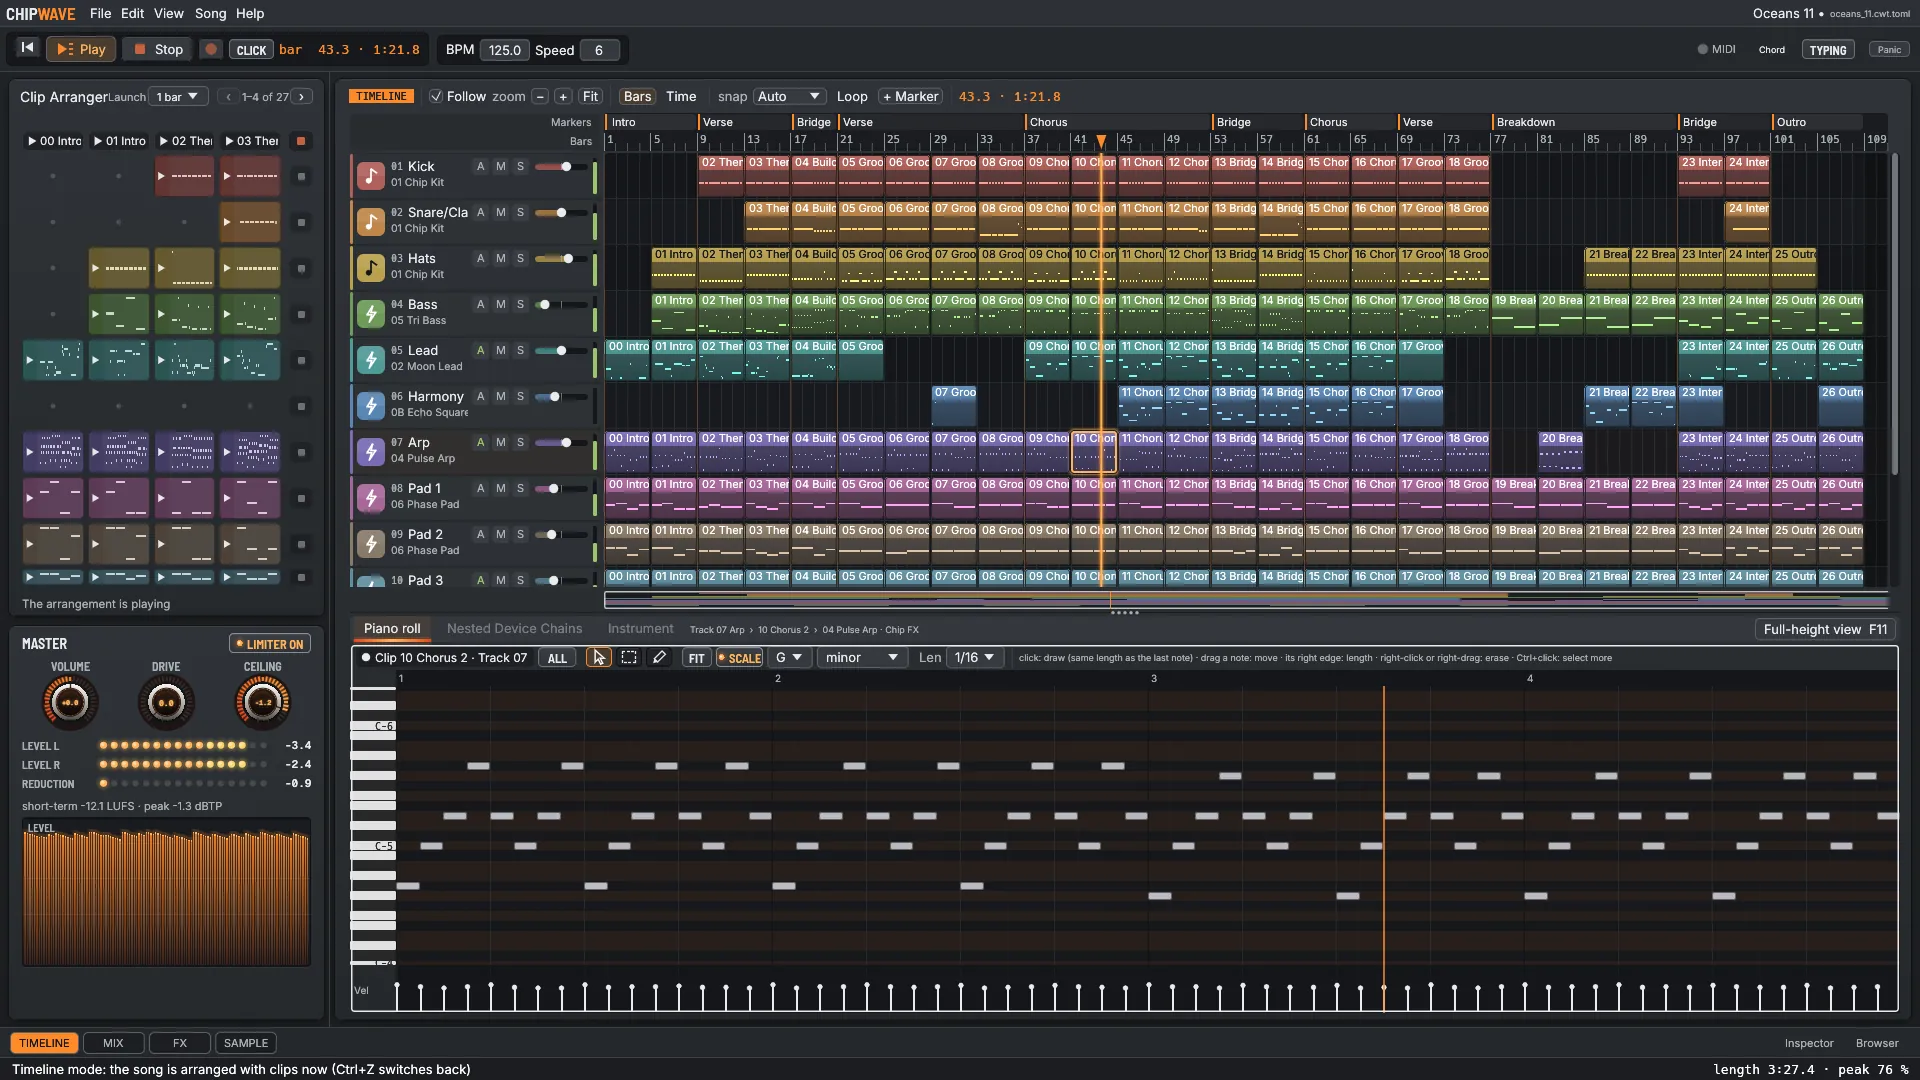
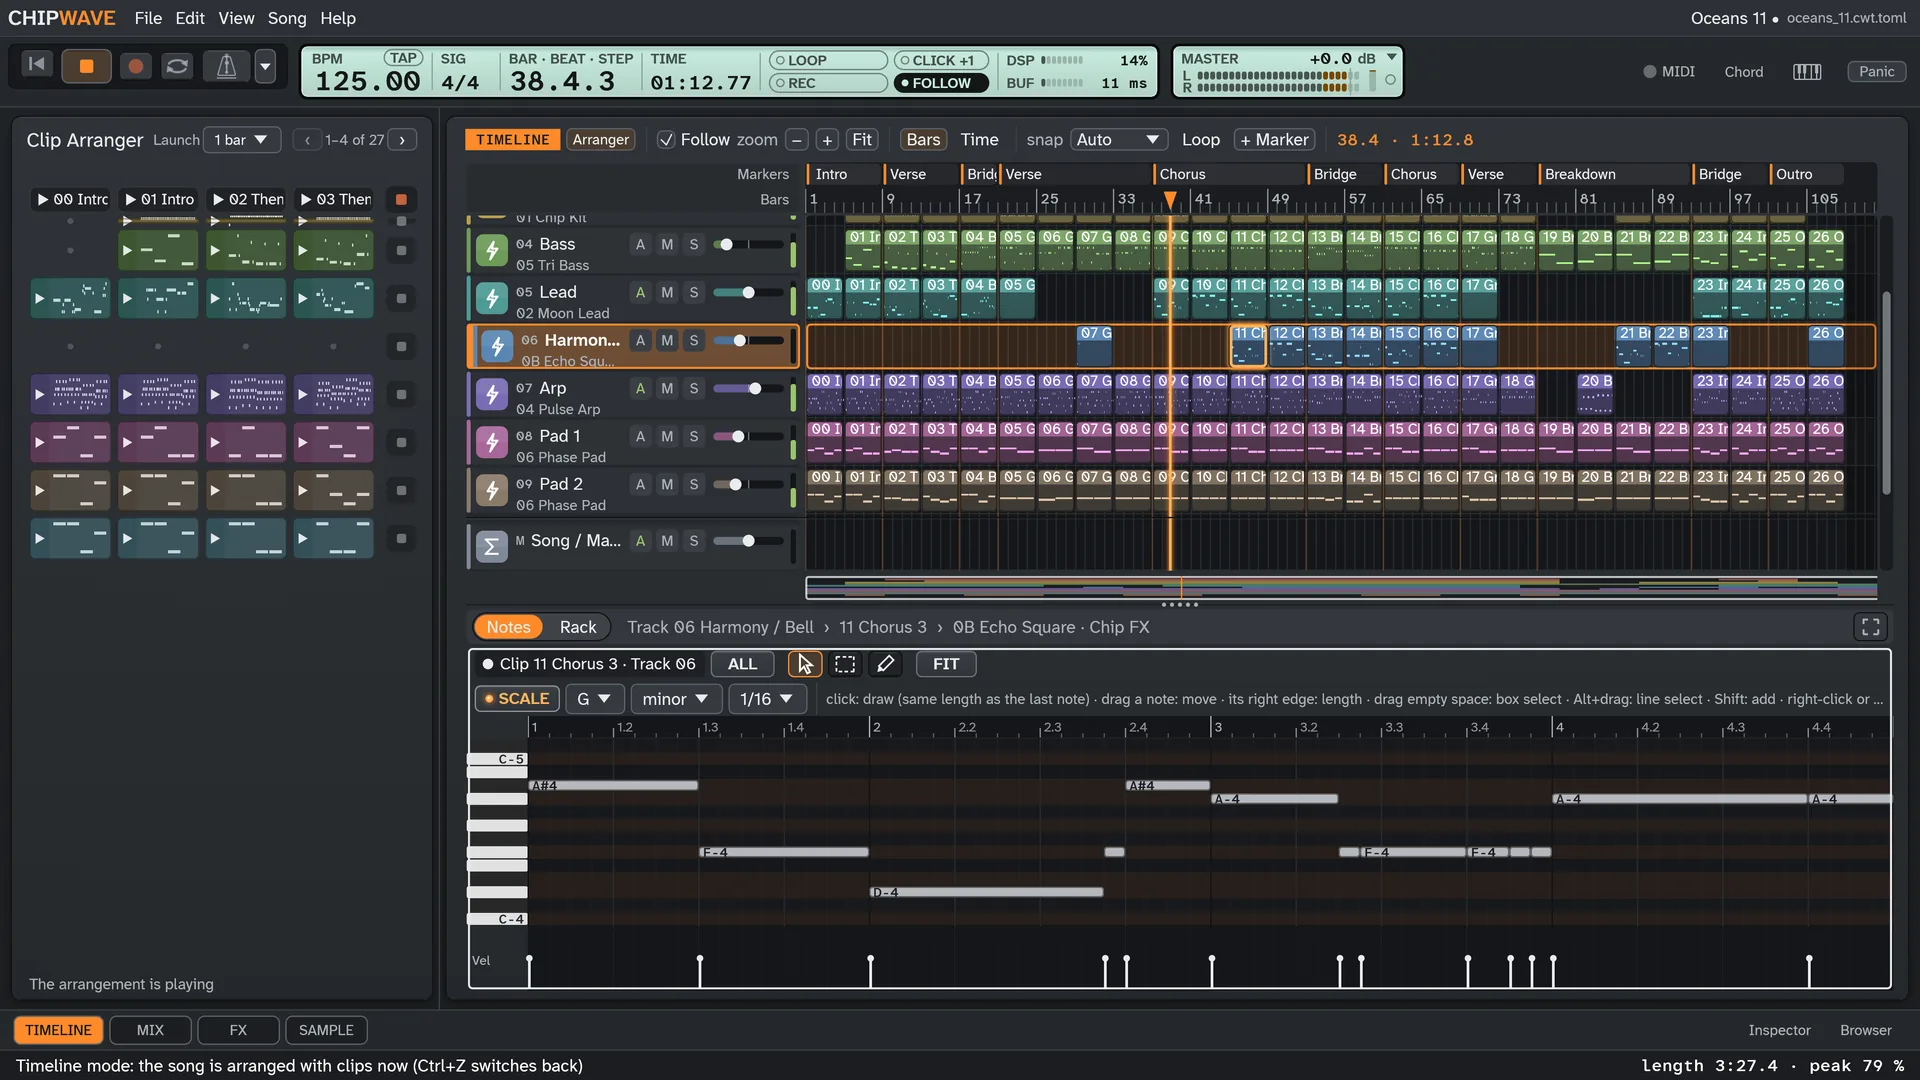
Site: screenshots retaken on ChipWave Studio 0.2.15.0 (Oceans 11 demo, 3x then downscaled), alt text updated where the content changed

diff --git a/index.html b/index.html
@@ -163,7 +163,7 @@ footer .wrap{display:flex;flex-wrap:wrap;gap:16px;justify-content:space-between;
     <p class="meta">Formerly <b>ChipWave Tracker</b>: same free app, new name (renamed in 0.2.4.0 to tell it apart from an unrelated iOS app called ChipWave).</p>
     <p class="meta">Latest release <b data-ver>v0.2.15.0</b> · Windows 64-bit · macOS 11+ (Apple Silicon &amp; Intel) · Linux from source</p>
     <figure class="hero-shot">
-      <img src="assets/shots/timeline-piano-roll.webp" srcset="assets/shots/timeline-piano-roll-800.webp 800w, assets/shots/timeline-piano-roll.webp 1600w" sizes="(max-width:1120px) 100vw, 1072px" width="1600" height="900" alt="ChipWave Studio in the Slate theme playing the Oceans 11 demo: the Timeline on top with eleven tracks of named, coloured clips under section markers, the Clip Arranger and Master meters on the left, and the Lead track's chorus melody open in the piano roll in the lower panel" fetchpriority="high">
+      <img src="assets/shots/timeline-piano-roll.webp" srcset="assets/shots/timeline-piano-roll-800.webp 800w, assets/shots/timeline-piano-roll.webp 1600w" sizes="(max-width:1120px) 100vw, 1072px" width="1600" height="900" alt="ChipWave Studio in the Slate theme playing the Oceans 11 demo: the LCD transport display at the top, the Timeline with named, coloured clips under section markers, the Clip Arranger on the left, and the Lead track's chorus melody open in the piano roll in the lower panel" fetchpriority="high">
     </figure>
   </div>
   <div class="scan" aria-hidden="true"></div>
@@ -302,22 +302,22 @@ footer .wrap{display:flex;flex-wrap:wrap;gap:16px;justify-content:space-between;
   <div class="carousel" role="region" aria-roledescription="carousel" aria-label="More ChipWave screenshots">
     <button class="cbtn prev" type="button" aria-label="Previous screenshot">‹</button>
     <div class="track" tabindex="0" aria-label="Screenshots, scroll sideways for more">
-      <figure class="shot" role="group" aria-roledescription="slide" aria-label="1 of 16"><a href="assets/shots/piano-roll-arp.webp"><img src="assets/shots/piano-roll-arp.webp" width="1920" height="1080" loading="lazy" decoding="async" alt="The piano roll under the Timeline, showing the Arp track’s chorus notes from the Oceans 11 demo"></a><figcaption><b>Piano roll.</b> Notes under the Timeline; Ctrl-drag copies.</figcaption></figure>
+      <figure class="shot" role="group" aria-roledescription="slide" aria-label="1 of 16"><a href="assets/shots/piano-roll-arp.webp"><img src="assets/shots/piano-roll-arp.webp" width="1920" height="1080" loading="lazy" decoding="async" alt="The piano roll under the Timeline, showing the Harmony track’s chorus notes from the Oceans 11 demo"></a><figcaption><b>Piano roll.</b> Notes under the Timeline; Ctrl-drag copies.</figcaption></figure>
       <figure class="shot" role="group" aria-roledescription="slide" aria-label="2 of 16"><a href="assets/shots/clip-arranger.webp"><img src="assets/shots/clip-arranger.webp" width="1920" height="1080" loading="lazy" decoding="async" alt="The Clip Arranger beside the Timeline with launcher clips per track and a scene playing"></a><figcaption><b>Clip Arranger.</b> Launch clips and scenes, then drag them onto the Timeline.</figcaption></figure>
-      <figure class="shot" role="group" aria-roledescription="slide" aria-label="3 of 16"><a href="assets/shots/rack-row.webp"><img src="assets/shots/rack-row.webp" width="1366" height="768" loading="lazy" decoding="async" alt="The Rack under the Timeline: the WaveForge Saw Lead card selected, then EQ, Compressor and Reverb cards with side tabs"></a><figcaption><b>The Rack.</b> The instrument and its effects in one row.</figcaption></figure>
+      <figure class="shot" role="group" aria-roledescription="slide" aria-label="3 of 16"><a href="assets/shots/rack-row.webp"><img src="assets/shots/rack-row.webp" width="1366" height="768" loading="lazy" decoding="async" alt="The Rack under the Timeline: the Moon Lead (Chip FX) card selected, then Filter, Chorus/Flanger and Delay cards with their curves and knobs"></a><figcaption><b>The Rack.</b> The instrument and its effects in one row.</figcaption></figure>
       <figure class="shot" role="group" aria-roledescription="slide" aria-label="4 of 16"><a href="assets/shots/waveforge-timeline.webp"><img src="assets/shots/waveforge-timeline.webp" width="1920" height="1080" loading="lazy" decoding="async" alt="The WaveForge polyphonic synth editor in the lower panel under the Timeline: macros, Sound, Filter and Envelope cards"></a><figcaption><b>WaveForge.</b> Polyphonic synth with unison and glide.</figcaption></figure>
       <figure class="shot" role="group" aria-roledescription="slide" aria-label="5 of 16"><a href="assets/shots/drumkit-timeline.webp"><img src="assets/shots/drumkit-timeline.webp" width="1920" height="1080" loading="lazy" decoding="async" alt="The Drum Kit editor under the Timeline: the Full-on Drive pattern in the step sequencer and the pads beside it"></a><figcaption><b>Drum Kit.</b> Pads, step sequencer and groove generator.</figcaption></figure>
       <figure class="shot" role="group" aria-roledescription="slide" aria-label="6 of 16"><a href="assets/shots/chipfx-timeline.webp"><img src="assets/shots/chipfx-timeline.webp" width="1920" height="1080" loading="lazy" decoding="async" alt="The Chip FX generator for the Oceans 11 Moon Lead with macro knobs, Pickup, Laser, Explosion, Power-up, Hit, Jump and Blip buttons and a filter"></a><figcaption><b>Chip FX.</b> Retro game sounds from an sfxr port.</figcaption></figure>
-      <figure class="shot" role="group" aria-roledescription="slide" aria-label="7 of 16"><a href="assets/shots/automation-lanes.webp"><img src="assets/shots/automation-lanes.webp" width="1920" height="1080" loading="lazy" decoding="async" alt="Automation lanes on the Timeline: a volume swell and a filter sweep under the Bass track, a looping clip lane, and a pan lane under the Hats"></a><figcaption><b>Automation.</b> Lanes for each track, right on the Timeline.</figcaption></figure>
-      <figure class="shot" role="group" aria-roledescription="slide" aria-label="8 of 16"><a href="assets/shots/browser-chipwave-instruments.webp"><img src="assets/shots/browser-chipwave-instruments.webp" width="1920" height="1080" loading="lazy" decoding="async" alt="The Browser’s ChipWave Instruments category listing WaveForge, Drum Kit, Synth, Analog, FM-4, Wavetable, Grid, Noise, Drum Synth, Chip FX and Voice, with FM-4 just added to a track"></a><figcaption><b>ChipWave Instruments.</b> Every built-in instrument, ready to drag in.</figcaption></figure>
+      <figure class="shot" role="group" aria-roledescription="slide" aria-label="7 of 16"><a href="assets/shots/automation-lanes.webp"><img src="assets/shots/automation-lanes.webp" width="1920" height="1080" loading="lazy" decoding="async" alt="Automation lanes on the Timeline in the Lumen Drift demo: a volume curve and a looping filter-cutoff clip lane under the Bass track"></a><figcaption><b>Automation.</b> Lanes for each track, right on the Timeline.</figcaption></figure>
+      <figure class="shot" role="group" aria-roledescription="slide" aria-label="8 of 16"><a href="assets/shots/browser-chipwave-instruments.webp"><img src="assets/shots/browser-chipwave-instruments.webp" width="1920" height="1080" loading="lazy" decoding="async" alt="The Browser’s ChipWave Instruments category listing WaveForge, Drum Kit, StringWave, Synth, Analog, FM-4, Wavetable, Grid, Noise, Drum Synth, Chip FX and Voice, with FM-4 just added to a track"></a><figcaption><b>ChipWave Instruments.</b> Every built-in instrument, ready to drag in.</figcaption></figure>
       <figure class="shot" role="group" aria-roledescription="slide" aria-label="9 of 16"><a href="assets/shots/voice-timeline.webp"><img src="assets/shots/voice-timeline.webp" width="1920" height="1080" loading="lazy" decoding="async" alt="The Voice instrument (Choir Eee preset) in the lower panel under the Timeline: Formant, Breath, Babble and Chorus macros, Filter and Envelope cards"></a><figcaption><b>Voice.</b> Vowels, words and stutter, no samples.</figcaption></figure>
       <figure class="shot" role="group" aria-roledescription="slide" aria-label="10 of 16"><a href="assets/shots/fm4-timeline.webp"><img src="assets/shots/fm4-timeline.webp" width="1920" height="1080" loading="lazy" decoding="async" alt="The FM-4 generator (E-Piano preset) under the Timeline with its macro knobs and the operator algorithm"></a><figcaption><b>FM-4.</b> Four operators, eight DX21/TX81Z algorithms.</figcaption></figure>
-      <figure class="shot" role="group" aria-roledescription="slide" aria-label="11 of 16"><a href="assets/shots/drum-synth-timeline.webp"><img src="assets/shots/drum-synth-timeline.webp" width="1920" height="1080" loading="lazy" decoding="async" alt="The Drum Synth generator (Psy Kit) under the Timeline with eight macro knobs and Kick, Snare, Clap, Hat and Tom buttons"></a><figcaption><b>Drum Synth.</b> Kicks to claps from eight macros, or a whole kit.</figcaption></figure>
+      <figure class="shot" role="group" aria-roledescription="slide" aria-label="11 of 16"><a href="assets/shots/drum-synth-timeline.webp"><img src="assets/shots/drum-synth-timeline.webp" width="1920" height="1080" loading="lazy" decoding="async" alt="The Drum Synth generator (Psy Kit) under the Timeline with eight macro knobs and Kick, Snare, Clap, Closed hat, Open hat, Tom and Perc buttons"></a><figcaption><b>Drum Synth.</b> Kicks to claps from eight macros, or a whole kit.</figcaption></figure>
       <figure class="shot" role="group" aria-roledescription="slide" aria-label="12 of 16"><a href="assets/shots/analog-timeline.webp"><img src="assets/shots/analog-timeline.webp" width="1920" height="1080" loading="lazy" decoding="async" alt="The Analog generator (Warm Lead preset) in the lower-panel instrument editor under the Timeline"></a><figcaption><b>Analog.</b> Three drifting oscillators and the vintage ladder.</figcaption></figure>
       <figure class="shot" role="group" aria-roledescription="slide" aria-label="13 of 16"><a href="assets/shots/mixer-oceans.webp"><img src="assets/shots/mixer-oceans.webp" width="1920" height="1080" loading="lazy" decoding="async" alt="The mixer playing Oceans 11: channel strips with inserts, sends and sidechain ducking, the master limiter and the LUFS loudness panel"></a><figcaption><b>Mixer.</b> Sidechain ducking, limiter and LUFS.</figcaption></figure>
       <figure class="shot" role="group" aria-roledescription="slide" aria-label="14 of 16"><a href="assets/shots/param-search.webp"><img src="assets/shots/param-search.webp" width="1920" height="1080" loading="lazy" decoding="async" alt="Parameter search in the full WaveForge editor: typing cutoff finds the Cutoff knob"></a><figcaption><b>Parameter search.</b> Ctrl+F finds any knob.</figcaption></figure>
       <figure class="shot" role="group" aria-roledescription="slide" aria-label="15 of 16"><a href="assets/shots/amiga-theme.webp"><img src="assets/shots/amiga-theme.webp" width="1920" height="1080" loading="lazy" decoding="async" alt="ChipWave Studio in the light Amiga Workbench Gradient theme: the Timeline, the Clip Arranger and the piano roll"></a><figcaption><b>Amiga theme.</b> Workbench blue and an orange cursor.</figcaption></figure>
-      <figure class="shot" role="group" aria-roledescription="slide" aria-label="16 of 16"><a href="assets/shots/tracker-view.webp"><img src="assets/shots/tracker-view.webp" width="1920" height="1080" loading="lazy" decoding="async" alt="The optional Tracker view: the Oceans 11 chorus block as an OctaMED-style pattern with notes, instruments and volumes in eleven columns"></a><figcaption><b>Optional Tracker view.</b> For those who love the classic way: an OctaMED-style pattern editor.</figcaption></figure>
+      <figure class="shot" role="group" aria-roledescription="slide" aria-label="16 of 16"><a href="assets/shots/tracker-view.webp"><img src="assets/shots/tracker-view.webp" width="1920" height="1080" loading="lazy" decoding="async" alt="The optional Tracker view: the Oceans 11 chorus block as an OctaMED-style pattern with notes, instruments and volumes, nine of its eleven channels in view"></a><figcaption><b>Optional Tracker view.</b> For those who love the classic way: an OctaMED-style pattern editor.</figcaption></figure>
     </div>
     <button class="cbtn next" type="button" aria-label="Next screenshot">›</button>
     <div class="dots" role="group" aria-label="Choose a screenshot"></div>
